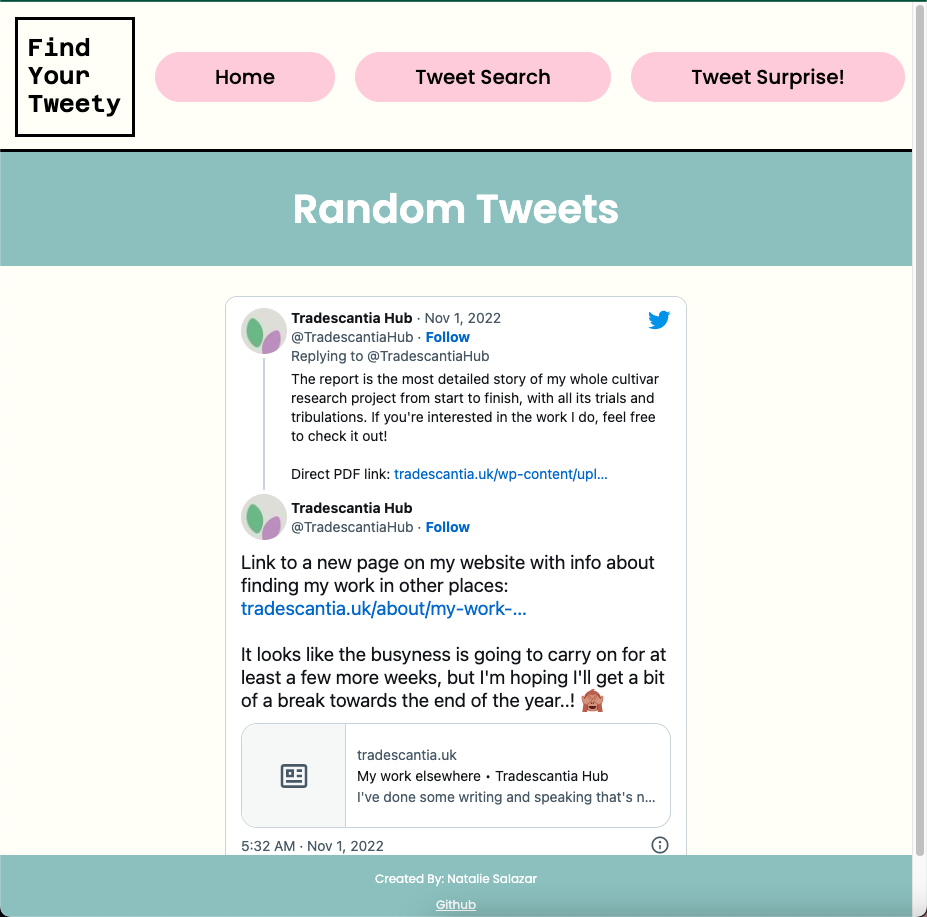
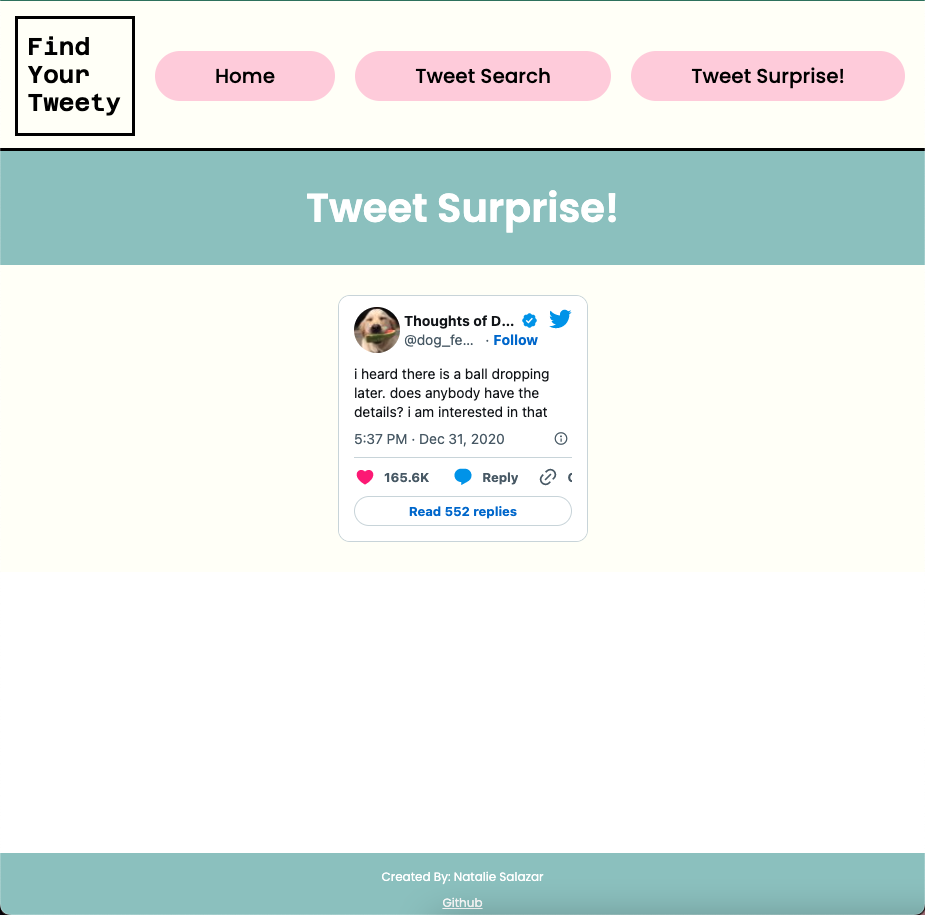
Added README file

diff --git a/README.md b/README.md
@@ -1,7 +1,7 @@
 # Find Your Tweety!
 
 <br>
-Find Your Tweety (FYT) is your new off-platform search engine to find the most recent Twitter Tweets by content, user timelines, hashtags, and user mentions. Find Your Tweety now!
+Find Your Tweety (FYT) is your new off-platform search engine to find the most recent Twitter Tweets by content, user timelines, hashtags, and user mentions. There's also a Tweet Surprise! page that showcases a random tweet from one of my top 5 favorite Twitter handles!
 <br>
 
 [Click here to to use!](https://find-your-tweety.herokuapp.com/)
@@ -10,15 +10,23 @@ Find Your Tweety (FYT) is your new off-platform search engine to find the most r
 
 ### Home Page
 
+<img src='src/pictures/demoPicHome.png'>
+
 ### Tweet Search
 
-<img src='./pictures/demoPic.png'>
+<img src='src/pictures/demoPicTweetSearch.png'>
+
+### Tweet Surprise!
+
+<img src='src/pictures/demoPicTweetSurprise.png'>
+
+<br>
 
 ## Summary
 
-This expense tracker was implemented using React, React-Bootstrap, Javascript and is deployed using Heroku. The tracker has 5 inputs: a date picker, a category dropdown selector, and three text inputs for vendor, description, and amount. When all 5 inputs have a value, the user can press "submit" and an expense line will be added to the "Expense Log" table below. The user can also click on any expense in the table, and it will be deleted.
+Find Your Tweety utilizes a ReactJS+CSS front end and data retrieval handled by Flask+Python to make requests to the Twitter 1.1 API according to user search criteria. React Router is used to navigate between pages and React Router Form is used to manage user search input. This project is deployed jointly on Heroku using a Python webpack that is configured to serve up the React front end simultaneously so that they can both operate off of the same server to avoid CORS issues.
 
-This app also utilizes local storage for both the expense items and the inputs. This way, not only can the user be reassured that their expenses will still be there when they refresh or navigate back to the app, but their inputs will be stored as well if their session was interrupted.
+The purpose of this project was to learn how to use Python Flask to build an API that can retrieve data from a database (another API in this instance(=) using a series of authorizations and parameters to then feed up to a front end for client use. I learned a lot about how different levels of stacks communicate to one another and why compartamentalized, streamlined, and easy-to-read code is easier to build and maintain. This project also gave me a chance to practice with React Router, and to hone my skills using React functional components even more. By deploying via a Python webpack on Heroku, I also had the chance to learn more about how full stack web applications are configured for deployment on a remote server via requirements.txt files, webpack file configurations, and the role of virtual environments for development.
 
 <br>
 
